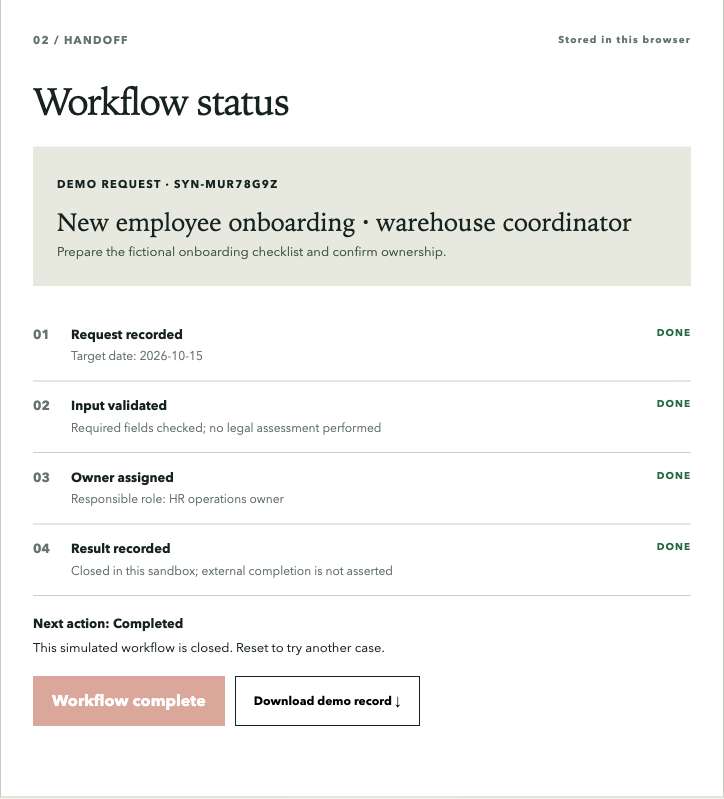
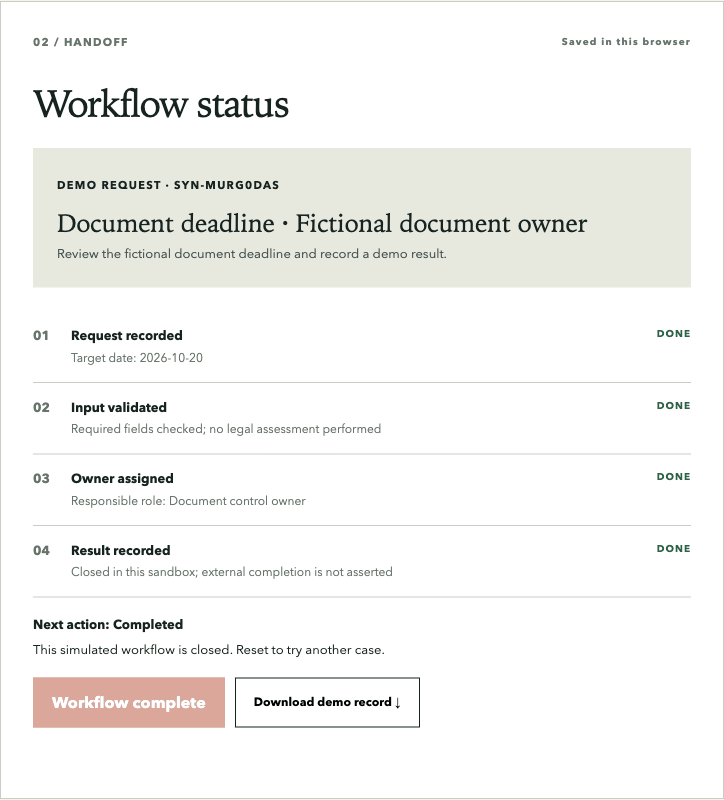
Keep KadrLine demo usable when browser storage is blocked

diff --git a/cases/kadrline.html b/cases/kadrline.html
@@ -14,4 +14,4 @@
   <meta property="og:image:height" content="630">
   <meta property="og:image:alt" content="Ivan Epifanov — Operations × AI × Product">
   <meta name="twitter:card" content="summary_large_image">
-  <meta name="twitter:image" content="https://ejonnyss.github.io/ivan-operations-portfolio/assets/social-preview.png"><link rel="icon" href="../favicon.svg" type="image/svg+xml"><title>KadrLine case — Ivan Epifanov</title><link rel="stylesheet" href="../assets/site.css"></head><body><a class="skip" href="#main">Skip to content</a><header class="site-header"><div class="wrap nav"><a class="brand" href="../">IE<span class="brand-dot">.</span></a><nav aria-label="Primary"><a href="../#work">Work</a><a href="../#approach">Approach</a><a href="../#contact">Contact ↗</a><a href="../ru/" lang="ru" aria-label="Русская версия">RU</a></nav></div></header><main id="main" class="case-page wrap"><a class="back-link" href="../#work">← All work</a><div class="case-hero"><p class="kicker">01 / B2B HR OPERATIONS</p><h1>KadrLine</h1><p>Turning HR risk assessment into a clear next action and a traceable handoff.</p></div><div class="case-layout"><article class="case-body"><h2>Context and problem</h2><p>KadrLine is an HR services practice. A static explanation of services does not demonstrate how an employer moves from uncertainty to an actionable personnel workflow. The existing risk-map implementation asks structured questions, validates answers, scores risk zones on the server and prepares follow-up through task and email integrations. A read-only API health request returned HTTP 200 with SMTP and WEEEK configured on 2 October 2026; submission and delivery were not tested.</p><p>The public site uses Tilda. In this audit environment, its protection layer returned HTTP 402, so the external questionnaire and production delivery could not be verified end to end. That is an access limitation, not evidence of an outage.</p><h2>Constraints and decision</h2><p>Client records, lead details, private integration code and credentials stay outside this portfolio. An HR document generator was rejected as a portfolio priority: it would create legal accuracy risk and would take longer to make trustworthy. A small, synthetic workflow makes the operating model inspectable without exposing the commercial system.</p><div class="evidence-box"><p><strong>Reviewer sandbox:</strong> create a fictional request, validate the input, assign a responsible role, record a result and export the demo trail. It runs entirely in the browser and does not send data to KadrLine or WEEEK.</p></div><p><a href="../demos/kadrline/">Try the synthetic workflow ↗</a></p><p><a href="https://kadrline-risk-map-api.isepifanov.chatgpt.site/voinskiy-uchet" target="_blank" rel="noopener noreferrer">Open the existing public eight-question checklist ↗</a> In a browser check on 2 October 2026, fictional answers reached an automatically generated result without submitting the contact form. Its legal and price copy was not revalidated for this portfolio review; the result is a preliminary checklist, not a legal assessment.</p><p><a href="https://kadrline-risk-map-api.isepifanov.chatgpt.site/kalkulyator-kadrovika" target="_blank" rel="noopener noreferrer">Open the public HR cost calculator ↗</a> Its result is an illustrative model, with salary and tax assumptions outside this review.</p><figure class="case-shot"><img src="../assets/kadrline-workflow.png" alt="Synthetic KadrLine request moving through validation, assignment and result"><figcaption>Browser-only reviewer sandbox with fictional request data.</figcaption></figure><h2>Implementation and architecture</h2><p>The private risk-map source has a bounded HTTP API, validation, deterministic scoring, best-effort idempotency and adapters for WEEEK tasks and email. The public sandbox is separate: static HTML, CSS and JavaScript with localStorage persistence. It illustrates an operations handoff rather than reproducing the private scoring logic.</p><p>There is no automatic legal conclusion and no automated employment decision. A human remains responsible for interpreting the result and taking the next action.</p><p><a href="https://github.com/Ejonnyss/ivan-operations-portfolio/blob/main/technical/kadrline.md" target="_blank" rel="noopener noreferrer">Read the public technical overview ↗</a></p><h2>What I directed and what AI did</h2><ul><li><strong>Product direction:</strong> focus on one complete, inspectable HR operations flow and synthetic data.</li><li><strong>AI/Codex implementation:</strong> audited the source, built the separate reviewer sandbox, documentation and browser checks.</li><li><strong>Verification:</strong> Worker package tests passed 25/25, including fictional WEEEK and SMTP delivery-flow checks, replay and SMTP failure; these local mocks do not prove live delivery. Live API health returned 200 and allowed-origin preflight returned 204. The existing public eight-question checklist reached a result with fictional answers. The sandbox was tested from input through completion, reload and JSON export.</li><li><strong>Acceptance boundary:</strong> the checklist contact form, live Tilda risk-map flow, WEEEK delivery and email delivery were not tested from this environment. The checklist’s legal and commercial copy was not revalidated. The earlier analytics Content Security Policy errors were fixed in Site version 11; version 12 distinguishes a confirmed email send from a replay with unknown email delivery. The deployed HTML for both forms returned HTTP 200. Business impact is not measured.</li></ul><h2>Problems found and iterations</h2><p>Browser QA found horizontal overflow in the sandbox workflow graphic and a completed step labelled as current; both were corrected before publication. The existing public checklist and calculator also logged blocked Yandex Metrica requests. A narrow Content Security Policy update in Site version 11 removed those console errors in fresh loads. Version 12 also corrected the form message after an idempotent replay, which previously could promise an email even after an SMTP failure. Version 14 aligned the calculator with the price workbook: the lower-bound add-on is now counted for each additional legal entity, and the result is labelled as a model difference. A live browser check used three entities, reached 50,000 ₽/month and showed no mobile overflow or console errors. The salary/tax assumptions, live lead delivery and legal copy remain outside this check.</p><h2>Result and learning</h2><p>The portfolio now contains a safe interactive explanation of the request-to-result logic. The strongest evidence is workflow structure and tested local behavior; the next technical gate is an authorized end-to-end submission and delivery readback.</p></article><aside class="case-aside"><dl><dt>Role</dt><dd>Operations lead · product direction · AI-assisted implementation</dd><dt>Status</dt><dd>Synthetic public demo; live API health verified; delivery not verified</dd><dt>Evidence</dt><dd>25/25 Worker tests, including mocked delivery and replay; live health/preflight; reviewer flow</dd><dt>Stack</dt><dd>Node / Cloudflare Worker source; static public sandbox</dd><dt>Live</dt><dd><a href="../demos/kadrline/">Reviewer sandbox ↗</a> · <a href="https://kadrline-risk-map-api.isepifanov.chatgpt.site/voinskiy-uchet" target="_blank" rel="noopener noreferrer">Existing checklist ↗</a></dd></dl></aside></div></main><footer class="footer"><div class="wrap"><span>Ivan Epifanov · 2026</span><span>Evidence before claims.</span></div></footer></body></html>
+  <meta name="twitter:image" content="https://ejonnyss.github.io/ivan-operations-portfolio/assets/social-preview.png"><link rel="icon" href="../favicon.svg" type="image/svg+xml"><title>KadrLine case — Ivan Epifanov</title><link rel="stylesheet" href="../assets/site.css"></head><body><a class="skip" href="#main">Skip to content</a><header class="site-header"><div class="wrap nav"><a class="brand" href="../">IE<span class="brand-dot">.</span></a><nav aria-label="Primary"><a href="../#work">Work</a><a href="../#approach">Approach</a><a href="../#contact">Contact ↗</a><a href="../ru/" lang="ru" aria-label="Русская версия">RU</a></nav></div></header><main id="main" class="case-page wrap"><a class="back-link" href="../#work">← All work</a><div class="case-hero"><p class="kicker">01 / B2B HR OPERATIONS</p><h1>KadrLine</h1><p>Turning HR risk assessment into a clear next action and a traceable handoff.</p></div><div class="case-layout"><article class="case-body"><h2>Context and problem</h2><p>KadrLine is an HR services practice. A static explanation of services does not demonstrate how an employer moves from uncertainty to an actionable personnel workflow. The existing risk-map implementation asks structured questions, validates answers, scores risk zones on the server and prepares follow-up through task and email integrations. A read-only API health request returned HTTP 200 with SMTP and WEEEK configured on 2 October 2026; submission and delivery were not tested.</p><p>The public site uses Tilda. In this audit environment, its protection layer returned HTTP 402, so the external questionnaire and production delivery could not be verified end to end. That is an access limitation, not evidence of an outage.</p><h2>Constraints and decision</h2><p>Client records, lead details, private integration code and credentials stay outside this portfolio. An HR document generator was rejected as a portfolio priority: it would create legal accuracy risk and would take longer to make trustworthy. A small, synthetic workflow makes the operating model inspectable without exposing the commercial system.</p><div class="evidence-box"><p><strong>Reviewer sandbox:</strong> create a fictional request, validate the input, assign a responsible role, record a result and export the demo trail. It runs entirely in the browser and does not send data to KadrLine or WEEEK.</p></div><p><a href="../demos/kadrline/">Try the synthetic workflow ↗</a></p><p><a href="https://kadrline-risk-map-api.isepifanov.chatgpt.site/voinskiy-uchet" target="_blank" rel="noopener noreferrer">Open the existing public eight-question checklist ↗</a> In a browser check on 2 October 2026, fictional answers reached an automatically generated result without submitting the contact form. Its legal and price copy was not revalidated for this portfolio review; the result is a preliminary checklist, not a legal assessment.</p><p><a href="https://kadrline-risk-map-api.isepifanov.chatgpt.site/kalkulyator-kadrovika" target="_blank" rel="noopener noreferrer">Open the public HR cost calculator ↗</a> Its result is an illustrative model, with salary and tax assumptions outside this review.</p><figure class="case-shot"><img src="../assets/kadrline-workflow.png" alt="Synthetic KadrLine request moving through validation, assignment and result"><figcaption>Browser-only reviewer sandbox with fictional request data.</figcaption></figure><h2>Implementation and architecture</h2><p>The private risk-map source has a bounded HTTP API, validation, deterministic scoring, best-effort idempotency and adapters for WEEEK tasks and email. The public sandbox is separate: static HTML, CSS and JavaScript with localStorage persistence. It illustrates an operations handoff rather than reproducing the private scoring logic.</p><p>There is no automatic legal conclusion and no automated employment decision. A human remains responsible for interpreting the result and taking the next action.</p><p><a href="https://github.com/Ejonnyss/ivan-operations-portfolio/blob/main/technical/kadrline.md" target="_blank" rel="noopener noreferrer">Read the public technical overview ↗</a></p><h2>What I directed and what AI did</h2><ul><li><strong>Product direction:</strong> focus on one complete, inspectable HR operations flow and synthetic data.</li><li><strong>AI/Codex implementation:</strong> audited the source, built the separate reviewer sandbox, documentation and browser checks.</li><li><strong>Verification:</strong> Worker package tests passed 25/25, including fictional WEEEK and SMTP delivery-flow checks, replay and SMTP failure; these local mocks do not prove live delivery. Live API health returned 200 and allowed-origin preflight returned 204. The existing public eight-question checklist reached a result with fictional answers. The sandbox was tested from input through completion, reload and JSON export.</li><li><strong>Acceptance boundary:</strong> the checklist contact form, live Tilda risk-map flow, WEEEK delivery and email delivery were not tested from this environment. The checklist’s legal and commercial copy was not revalidated. The earlier analytics Content Security Policy errors were fixed in Site version 11; version 12 distinguishes a confirmed email send from a replay with unknown email delivery. The deployed HTML for both forms returned HTTP 200. Business impact is not measured.</li></ul><h2>Problems found and iterations</h2><p>Browser QA found horizontal overflow in the sandbox workflow graphic and a completed step labelled as current; both were corrected before publication. A later browser check exposed a blocked browser-storage failure; the sandbox now keeps the current request usable in memory and marks changes as unsaved. The existing public checklist and calculator also logged blocked Yandex Metrica requests. A narrow Content Security Policy update in Site version 11 removed those console errors in fresh loads. Version 12 also corrected the form message after an idempotent replay, which previously could promise an email even after an SMTP failure. Version 14 aligned the calculator with the price workbook: the lower-bound add-on is now counted for each additional legal entity, and the result is labelled as a model difference. A live browser check used three entities, reached 50,000 ₽/month and showed no mobile overflow or console errors. The salary/tax assumptions, live lead delivery and legal copy remain outside this check.</p><h2>Result and learning</h2><p>The portfolio now contains a safe interactive explanation of the request-to-result logic. The strongest evidence is workflow structure and tested local behavior; the next technical gate is an authorized end-to-end submission and delivery readback.</p></article><aside class="case-aside"><dl><dt>Role</dt><dd>Operations lead · product direction · AI-assisted implementation</dd><dt>Status</dt><dd>Synthetic public demo; live API health verified; delivery not verified</dd><dt>Evidence</dt><dd>25/25 Worker tests, including mocked delivery and replay; live health/preflight; reviewer flow</dd><dt>Stack</dt><dd>Node / Cloudflare Worker source; static public sandbox</dd><dt>Live</dt><dd><a href="../demos/kadrline/">Reviewer sandbox ↗</a> · <a href="https://kadrline-risk-map-api.isepifanov.chatgpt.site/voinskiy-uchet" target="_blank" rel="noopener noreferrer">Existing checklist ↗</a></dd></dl></aside></div></main><footer class="footer"><div class="wrap"><span>Ivan Epifanov · 2026</span><span>Evidence before claims.</span></div></footer></body></html>

diff --git a/ru/cases/kadrline.html b/ru/cases/kadrline.html
@@ -23,6 +23,6 @@
 <h2>Ограничения и выбор</h2><p>Клиентские записи, контакты, ключи и коммерческий код нельзя переносить в портфолио. Автоматическую генерацию кадрового документа я не выбрал: юридическую корректность такого результата пришлось бы доказывать отдельно. Для демонстрации операционного мышления полезнее один короткий сквозной сценарий на вымышленных данных.</p><p>Создан отдельный браузерный стенд: заявка → проверка полей → ответственная роль → срок → результат → экспорт журнала. Он не отправляет данные в KadrLine или WEEEK и не повторяет закрытый алгоритм оценки рисков.</p><p><a href="../../demos/kadrline/">Открыть демонстрационный процесс ↗</a> · <a href="https://kadrline-risk-map-api.isepifanov.chatgpt.site/voinskiy-uchet" target="_blank" rel="noopener noreferrer">Открыть публичный чек-лист ↗</a></p><p><a href="https://kadrline-risk-map-api.isepifanov.chatgpt.site/kalkulyator-kadrovika" target="_blank" rel="noopener noreferrer">Открыть публичный калькулятор кадровых затрат ↗</a> Результат — оценка по модели; зарплатные и налоговые допущения этой проверкой не подтверждены.</p><figure class="case-shot"><img src="../../assets/kadrline-workflow.png" alt="Вымышленная кадровая заявка с проверкой, ответственным и результатом"><figcaption>Демо работает в браузере на вымышленных данных; это не запись клиента.</figcaption></figure>
 <h2>Реализация и архитектура</h2><p>Закрытый пакет карты рисков содержит HTTP API, валидацию, детерминированный расчёт, ограниченную защиту от повторов и адаптеры для задач WEEEK и email. Публичный стенд устроен отдельно: статические HTML, CSS и JavaScript с сохранением в localStorage. Результат предварительный; окончательное кадровое и юридическое решение принимает человек.</p><p><a href="https://github.com/Ejonnyss/ivan-operations-portfolio/blob/main/technical/kadrline.md" target="_blank" rel="noopener noreferrer" lang="en">Технический обзор на английском ↗</a></p>
 <h2>Моя роль и работа Codex</h2><ul><li><strong>Моё решение:</strong> показать один процесс передачи задачи без публикации клиентских данных и закрытого кода.</li><li><strong>Codex:</strong> аудит исходников, реализация отдельного стенда и исправления, тестирование под моими требованиями.</li><li><strong>Проверка:</strong> 25/25 тестов закрытого пакета, включая фиктивную сквозную проверку WEEEK и SMTP, повтор и сбой почты, HTTP 200 от live health API и 204 от разрешённого CORS preflight; в стенде проверены ввод, завершение, перезагрузка и экспорт JSON.</li><li><strong>Граница приёмки:</strong> реальная отправка заявки, создание задачи WEEEK и доставка письма здесь не подтверждены. Юридический и коммерческий текст чек-листа отдельно не перепроверен.</li></ul>
-<h2>Что обнаружили и исправили</h2><p>В браузерной проверке схема стенда выходила за ширину мобильного экрана, а завершённый шаг обозначался как текущий. Оба дефекта исправлены до публикации. На существующих страницах чек-листа и калькулятора консоль показывала блокировку запросов Яндекс.Метрики. Узкое изменение Content Security Policy в версии Site 11 убрало эти ошибки при повторной загрузке. Версия 12 исправила сообщение после повтора заявки: интерфейс больше не обещает письмо, если повторная отправка не подтверждена. Обе формы проверены в браузере с подменённым ответом API; опубликованный HTML получен с HTTP 200. Версия 14 сверила калькулятор с прайсом: доплата по нижней границе теперь начисляется за каждое дополнительное юрлицо, а итог назван разницей по модели. Живой браузерный расчёт для трёх юрлиц показал 50 000 ₽/мес без переполнения на мобильном экране и ошибок консоли. Налоговые и зарплатные допущения, юридический текст и реальная доставка этой проверкой не подтверждены.</p>
+<h2>Что обнаружили и исправили</h2><p>В браузерной проверке схема стенда выходила за ширину мобильного экрана, а завершённый шаг обозначался как текущий. Оба дефекта исправлены до публикации. Позднее выявлен сбой при запрете хранилища браузера: теперь заявка остаётся доступной в памяти до перезагрузки, а интерфейс честно сообщает, что изменения не сохранены. На существующих страницах чек-листа и калькулятора консоль показывала блокировку запросов Яндекс.Метрики. Узкое изменение Content Security Policy в версии Site 11 убрало эти ошибки при повторной загрузке. Версия 12 исправила сообщение после повтора заявки: интерфейс больше не обещает письмо, если повторная отправка не подтверждена. Обе формы проверены в браузере с подменённым ответом API; опубликованный HTML получен с HTTP 200. Версия 14 сверила калькулятор с прайсом: доплата по нижней границе теперь начисляется за каждое дополнительное юрлицо, а итог назван разницей по модели. Живой браузерный расчёт для трёх юрлиц показал 50 000 ₽/мес без переполнения на мобильном экране и ошибок консоли. Налоговые и зарплатные допущения, юридический текст и реальная доставка этой проверкой не подтверждены.</p>
 <h2>Результат и вывод</h2><p>Работающий публичный стенд позволяет проверить логику передачи кадровой заявки без доступа к клиентской системе. Проверка интерфейса и доступности API подтверждает технические части сценария. Доставку в рабочие каналы, юридическую точность и влияние на бизнес нельзя выводить из этих проверок.</p></article><aside class="case-aside"><dl><dt>Роль</dt><dd>Операционный руководитель · продуктовые решения · приёмка</dd><dt>Статус</dt><dd>Публичное демо на вымышленных данных; доставка в рабочие каналы не проверена</dd><dt>Доказательства</dt><dd>25 тестов, включая WEEEK/SMTP с заглушками; live health/preflight; браузерный сценарий</dd><dt>Технологии</dt><dd>Node / Cloudflare Worker в закрытом пакете; статический демостенд</dd><dt>Ссылка</dt><dd><a href="../../demos/kadrline/">Открыть демо ↗</a></dd></dl></aside></div></main>
 <footer class="footer"><div class="wrap"><span>Иван Епифанов · 2026</span><span>Сначала доказательство, затем утверждение.</span></div></footer></body></html>

diff --git a/demos/kadrline/index.html b/demos/kadrline/index.html
@@ -5,6 +5,6 @@
 <main id="main" class="wrap">
   <section class="intro"><div><p class="kicker">SIMULATED HR OPERATIONS</p><h1>A request becomes<br><em>a traceable action.</em></h1><p class="lede">Create a fictional HR request, validate it, assign ownership and close the loop. This browser-only sandbox uses synthetic data. It does not contact KadrLine, WEEEK or any employer.</p></div><div class="signal"><span>01</span><strong>REQUEST</strong><i></i><span>02</span><strong>VALIDATE</strong><i></i><span>03</span><strong>ASSIGN</strong><i></i><span>04</span><strong>RESULT</strong></div></section>
   <div class="workspace"><section class="panel input-panel" aria-labelledby="form-title"><div class="panel-top"><span class="overline">01 / INPUT</span><span class="demo-badge">Fictional company</span></div><h2 id="form-title">New request</h2><p class="sub">Use only synthetic examples. Do not enter real employee or client information.</p><form id="request-form" novalidate><label for="request-type">Request type</label><select id="request-type" required><option value="">Choose a workflow</option><option value="onboarding">New employee onboarding</option><option value="deadline">Document deadline</option><option value="role-change">Role change</option></select><label for="role">Fictional role or team</label><input id="role" maxlength="60" placeholder="e.g. warehouse coordinator" required><label for="due-date">Target date</label><input id="due-date" type="date" required><label for="note">Context for the task</label><textarea id="note" rows="4" maxlength="220" placeholder="What should the responsible person check?" required></textarea><p id="form-error" class="error" role="alert" hidden></p><button class="primary" type="submit">Create request <span aria-hidden="true">↗</span></button></form><button class="reset" id="reset" type="button">Reset sandbox</button></section>
-  <section class="panel flow-panel" aria-labelledby="flow-title"><div class="panel-top"><span class="overline">02 / HANDOFF</span><span id="save-status" class="save-status">Stored in this browser</span></div><h2 id="flow-title">Workflow status</h2><div id="empty" class="empty"><div class="empty-mark">↳</div><h3>No request yet</h3><p>The operations trail appears here after a request is created.</p></div><div id="flow" hidden><div class="request-summary"><span id="request-id" class="overline"></span><h3 id="summary-title"></h3><p id="summary-note"></p></div><ol class="steps" id="steps"></ol><div class="next-action" id="next-action"></div><div class="action-row"><button class="primary" type="button" id="advance"></button><button class="secondary" type="button" id="download">Download demo record ↓</button></div></div></section></div>
-  <section class="details"><div><span class="overline">WHAT THIS PROVES</span><p>A bounded operations pattern: required input → validation → responsible role → deadline → explicit completion. The status trail survives a reload in localStorage.</p></div><div><span class="overline">BOUNDARY</span><p>The existing KadrLine risk-map API is a separate private implementation with server scoring and integrations. This public sandbox illustrates the handoff; it is not a production HR system or legal assessment.</p></div></section>
+  <section class="panel flow-panel" aria-labelledby="flow-title"><div class="panel-top"><span class="overline">02 / HANDOFF</span><span id="save-status" class="save-status" role="status" aria-live="polite">Local only · no server</span></div><h2 id="flow-title">Workflow status</h2><div id="empty" class="empty"><div class="empty-mark">↳</div><h3>No request yet</h3><p>The operations trail appears here after a request is created.</p></div><div id="flow" hidden><div class="request-summary"><span id="request-id" class="overline"></span><h3 id="summary-title"></h3><p id="summary-note"></p></div><ol class="steps" id="steps"></ol><div class="next-action" id="next-action"></div><div class="action-row"><button class="primary" type="button" id="advance"></button><button class="secondary" type="button" id="download">Download demo record ↓</button></div></div></section></div>
+  <section class="details"><div><span class="overline">WHAT THIS PROVES</span><p>A bounded operations pattern: required input → validation → responsible role → deadline → explicit completion. When browser storage is available, the status trail survives a reload.</p></div><div><span class="overline">BOUNDARY</span><p>The existing KadrLine risk-map API is a separate private implementation with server scoring and integrations. This public sandbox illustrates the handoff; it is not a production HR system or legal assessment.</p></div></section>
 </main><script src="demo.js" defer></script></body></html>

diff --git a/demos/kadrline/demo.js b/demos/kadrline/demo.js
@@ -15,6 +15,7 @@ const error = document.querySelector('#form-error');
 const reset = document.querySelector('#reset');
 const advance = document.querySelector('#advance');
 const download = document.querySelector('#download');
+const saveStatus = document.querySelector('#save-status');
 let record = null;
 
 function escapeHtml(value) {
@@ -28,7 +29,14 @@ function parseRecord() {
     return saved;
   } catch { return null; }
 }
-function save() { localStorage.setItem(KEY, JSON.stringify(record)); }
+function save() {
+  try {
+    localStorage.setItem(KEY, JSON.stringify(record));
+    saveStatus.textContent = 'Saved in this browser';
+  } catch {
+    saveStatus.textContent = 'Browser storage unavailable · current changes are not saved';
+  }
+}
 function render() {
   const active = !!record;
   document.querySelector('#empty').hidden = active;
@@ -84,7 +92,14 @@ advance.addEventListener('click', () => {
   save(); render();
 });
 reset.addEventListener('click', () => {
-  record = null; localStorage.removeItem(KEY); form.reset(); error.hidden = true; render();
+  record = null;
+  try {
+    localStorage.removeItem(KEY);
+    saveStatus.textContent = 'Local only · no server';
+  } catch {
+    saveStatus.textContent = 'Could not clear browser storage · clear site data in browser settings';
+  }
+  form.reset(); error.hidden = true; render();
 });
 download.addEventListener('click', () => {
   if (!record) return;
@@ -93,4 +108,6 @@ download.addEventListener('click', () => {
   const link = document.createElement('a'); link.href = url; link.download = `${record.id.toLowerCase()}.json`; link.click();
   setTimeout(() => URL.revokeObjectURL(url), 1000);
 });
-record = parseRecord(); render();
+record = parseRecord();
+if (record) saveStatus.textContent = 'Restored from this browser';
+render();

diff --git a/README.md b/README.md
@@ -10,7 +10,7 @@ The English and Russian portfolio pages have canonical, language-alternate and s
 python3 -m http.server 4176
 ```
 
-Open `http://127.0.0.1:4176/` for English or `/ru/` for Russian. Both versions have case pages; the live demos use their original interface languages. The KadrLine reviewer sandbox persists only in the visitor's browser. Use **Reset sandbox** to delete its local record.
+Open `http://127.0.0.1:4176/` for English or `/ru/` for Russian. Both versions have case pages; the live demos use their original interface languages. The KadrLine reviewer sandbox persists only in the visitor's browser when browser storage is available. If storage is blocked, the current fictional request remains usable in memory and the UI marks it unsaved. Use **Reset sandbox** to delete the local record; if the browser blocks deletion, clear site data in browser settings.
 
 ## Evidence and boundaries
 
